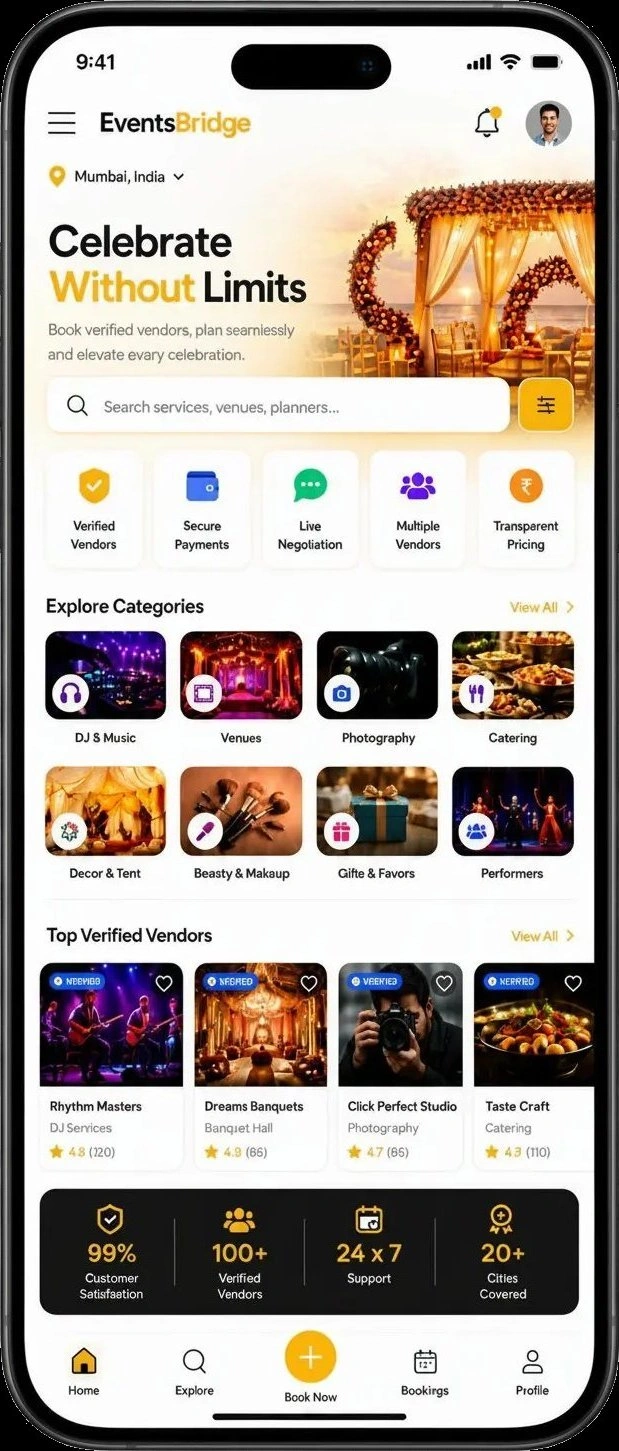
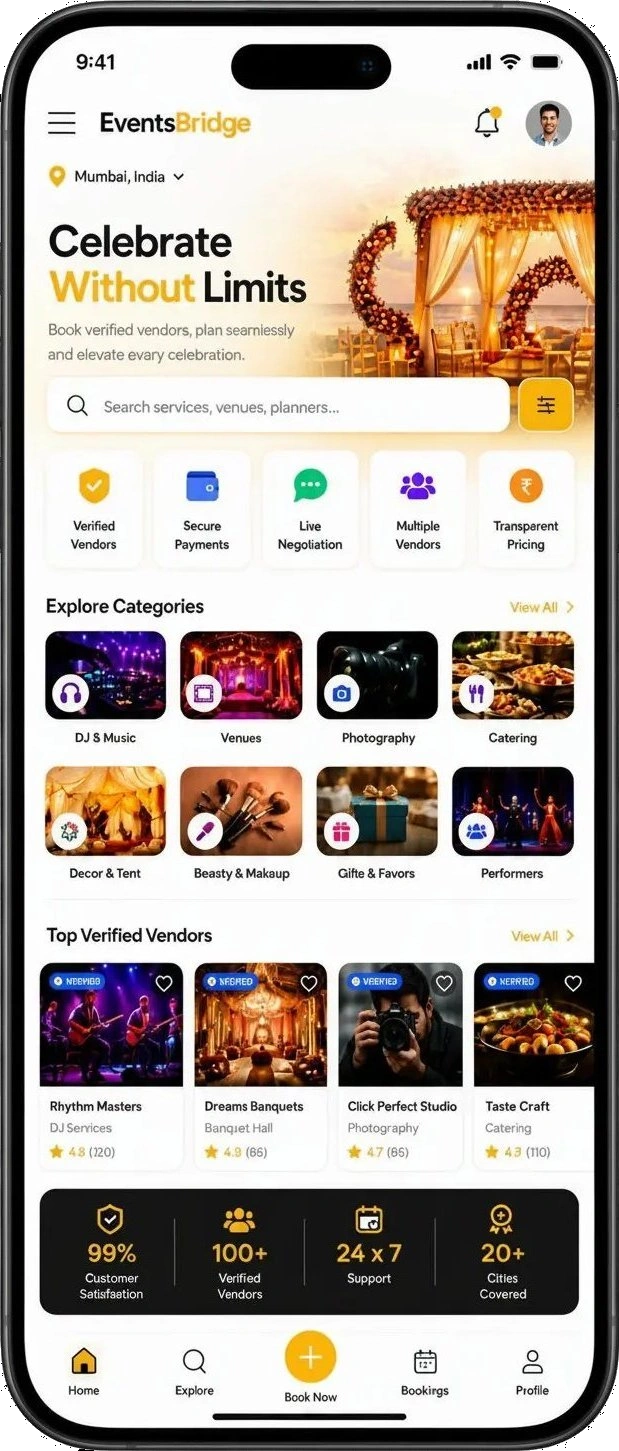
Redegine the Mobile Section

diff --git a/frontend/src/components/common/Navbar.jsx b/frontend/src/components/common/Navbar.jsx
@@ -222,7 +222,7 @@ const Navbar = ({ onOpenLogin, onOpenRegister, onOpenVendorLogin }) => {
       <div className="navbar-fixed-wrapper">
       {/* ===== ANNOUNCEMENT BAR ===== */}
       <div className="announcement-bar">
-        PLAN MEMORABLE CELEBRATIONS WITH TRUSTED VENDORS - ALL IN ONE PLACE
+        Your All-in-One Marketplace for Memorable Events
       </div>
 
       {/* ===== MAIN NAVBAR ===== */}

diff --git a/frontend/src/components/common/navbar/VendorMenu.jsx b/frontend/src/components/common/navbar/VendorMenu.jsx
@@ -74,7 +74,7 @@ const VendorMenu = ({
       >
         <VendorIcon className="w-[22px] h-[22px] transition-all duration-300 group-hover:scale-110 group-active:scale-95" />
         <span className="text-[#001F3F] font-semibold hidden sm:inline md:hidden lg:inline group-hover:text-white transition-colors duration-300">
-          {!VendorFirstName ? "Be a Vendor" : `Hi, ${VendorFirstName}`}
+          {!VendorFirstName ? "Be a Partner" : `Hi, ${VendorFirstName}`}
         </span>
       </div>
 

diff --git a/frontend/src/components/customer/home/HeroSection.jsx b/frontend/src/components/customer/home/HeroSection.jsx
@@ -176,7 +176,7 @@ export default function HeroSection() {
           <motion.img
             src="/EB-MOBILEIMG.webp"
             alt="EventsBridge App Preview"
-            className="relative z-10 h-[380px] sm:h-[480px] lg:h-[580px]"
+            className="relative z-10 h-[480px] sm:h-[620px] lg:h-[580px] "
             style={{
               width: "auto",
               objectFit: "contain",